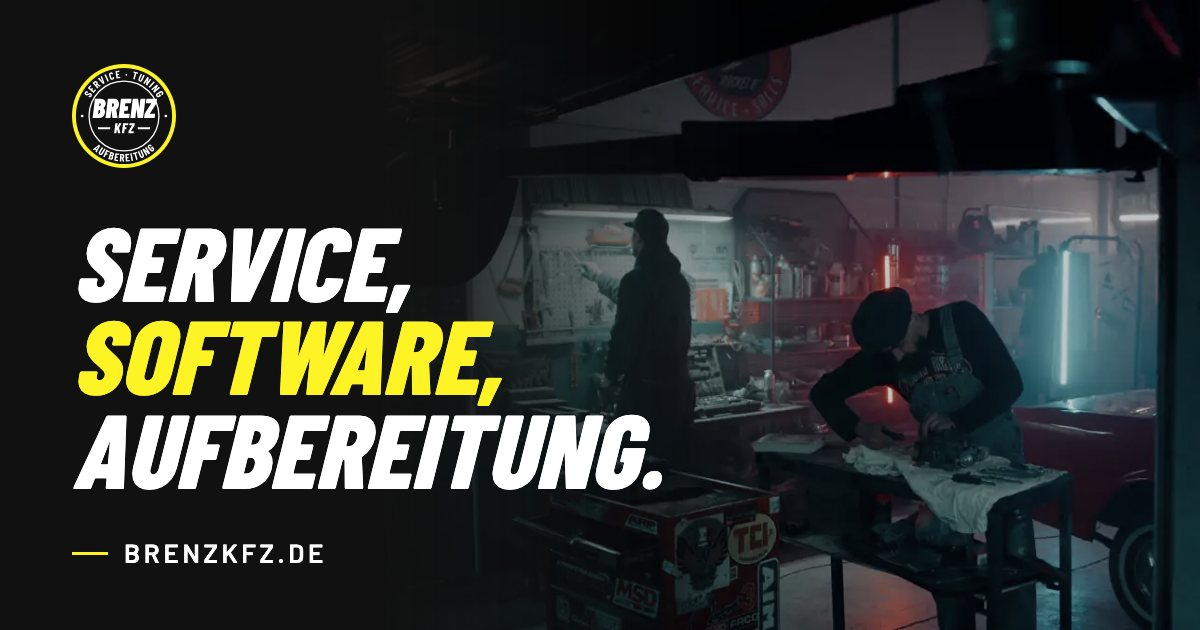
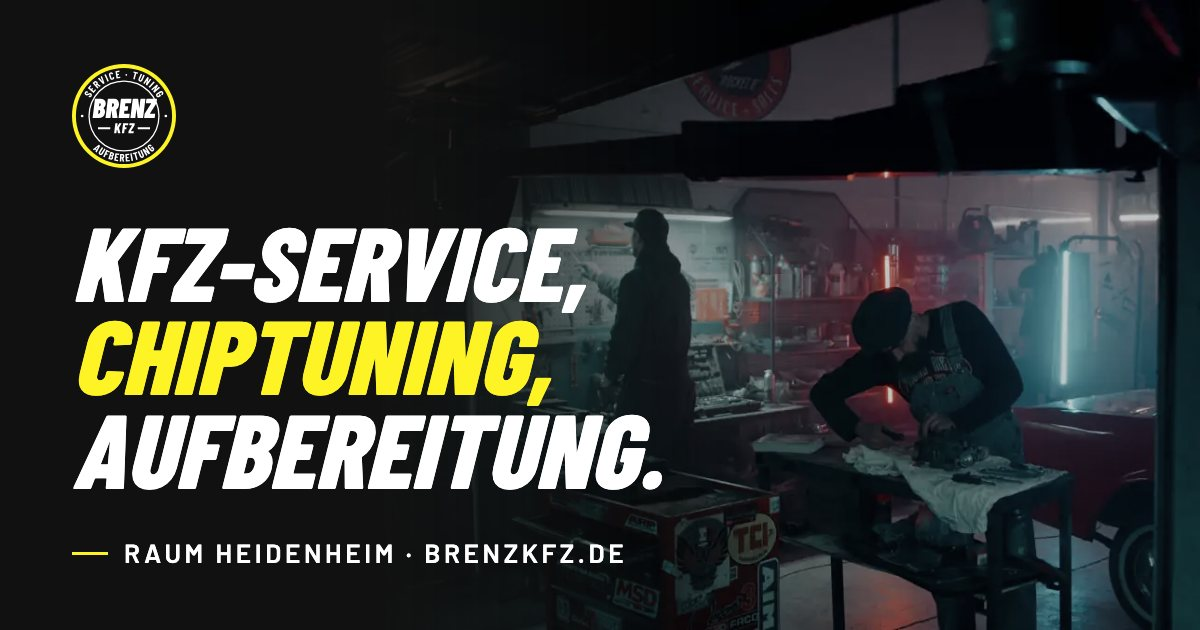
h1 mit echten Suchbegriffen: Kfz-Service, Chiptuning, Aufbereitung
- Große Überschrift statt „Service, Software, Aufbereitung.“, Kennzeile
  „Werkstatt im Raum Heidenheim“ bleibt Teil der h1
- Vorschaubild für WhatsApp und Social Media mit neuer Überschrift

Changed region(s): [[0.0617, 0.3619, 0.4933, 0.6635], [0.0925, 0.8444, 0.5242, 0.9048]]

diff --git a/index.html b/index.html
@@ -21,7 +21,7 @@
 <meta property="og:image" content="https://brenzkfz.de/img/og.jpg">
 <meta property="og:image:width" content="1200">
 <meta property="og:image:height" content="630">
-<meta property="og:image:alt" content="Brenz KFZ: Service, Software, Aufbereitung.">
+<meta property="og:image:alt" content="Brenz KFZ: Kfz-Service, Chiptuning, Aufbereitung im Raum Heidenheim.">
 <meta name="twitter:card" content="summary_large_image">
 <link rel="preload" href="fonts/BarlowCondensed-800.woff2" as="font" type="font/woff2" crossorigin>
 <link rel="preload" href="img/werkstatt-hoch.webp" as="image" media="(max-width: 899px)">
@@ -237,7 +237,7 @@ a{color:inherit;text-decoration:none}
     </div>
     <div class="innen held-inhalt">
       <div class="text-block">
-        <h1 id="held-titel"><span class="kennzeile">Kfz-Werkstatt im Raum Heidenheim</span> <span class="titel"><span>Service,</span> <span class="akzent">Software,</span> <span>Aufbereitung.</span></span></h1>
+        <h1 id="held-titel"><span class="kennzeile">Werkstatt im Raum Heidenheim</span> <span class="titel"><span>Kfz-Service,</span> <span class="akzent">Chiptuning,</span> <span>Aufbereitung.</span></span></h1>
         <p class="unterzeile">Kfz-Service und Fahrzeugaufbereitung für Heidenheim und Umgebung. Softwareoptimierung auch für Fahrzeuge aus der ganzen Region.</p>
       </div>
       <div class="knoepfe">
